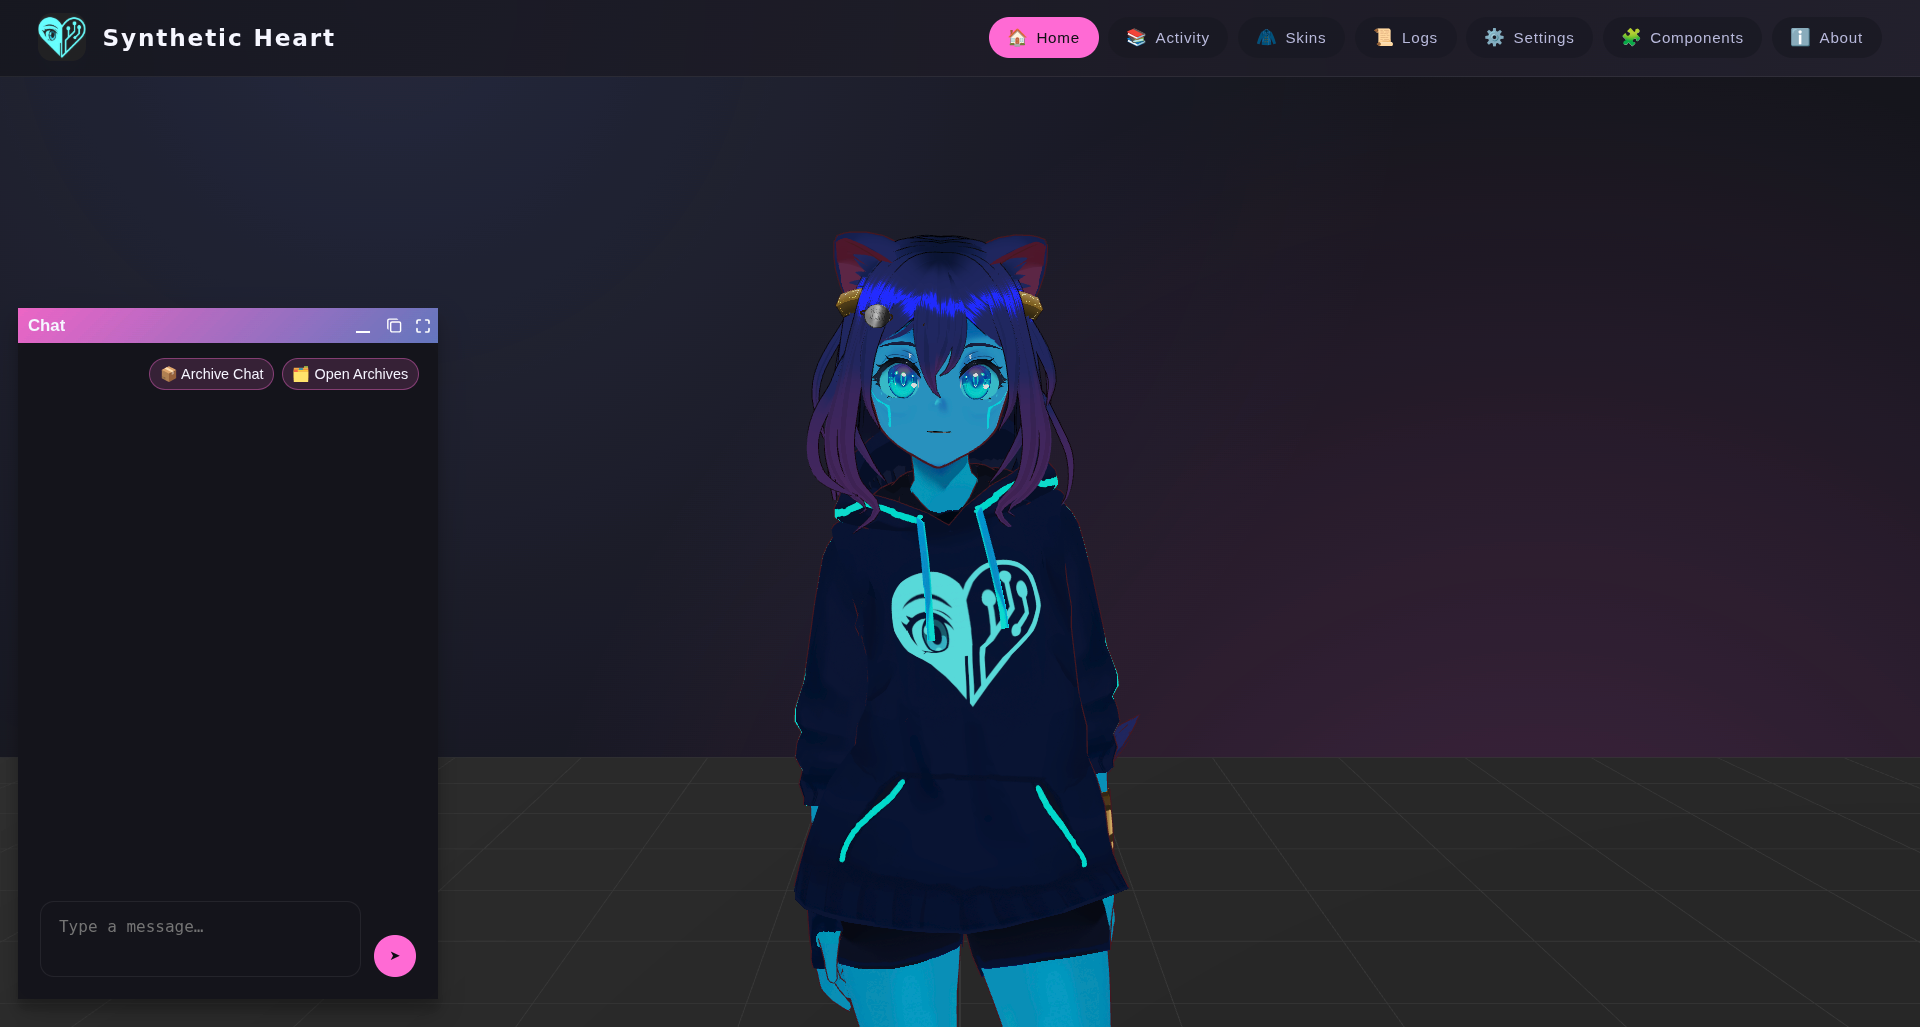
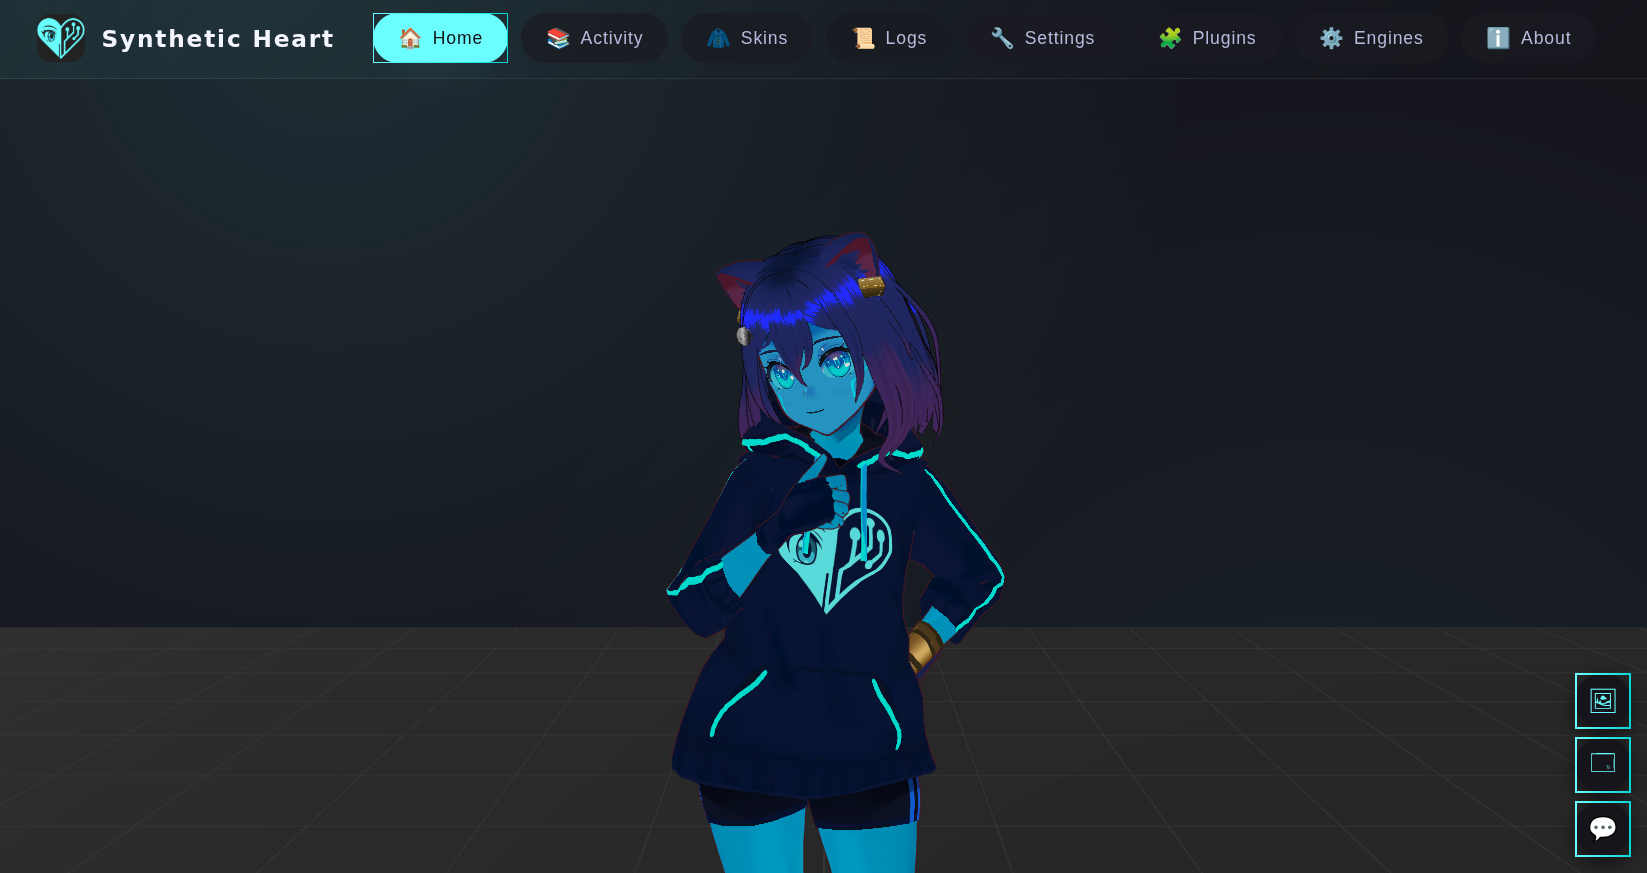
docs(readme): updated with freshers information and screenshots

diff --git a/README.md b/README.md
@@ -76,28 +76,90 @@ Because Synthetic Heart system are inspired on how humans are, SyntHs are not un
    <em>* Some default SyntH avatars are included, but users can provide their own VRM avatar file.</em>
 </p>
 
-### Features
+## Features
 
-- **Switchable Cortex engines** (API-driven Gemini, OpenAI, Claude, Grok, or local OpenAI-compatible instances). Hot-swappable at runtime.
-- **OpenAI API compatible** (both directions): a typed prompt pipeline with native renderers for OpenAI-compatible, Anthropic, Gemini, external-endpoint, and Live engine paths. Anything designed to call the OpenAI API can interface with Synthetic Heart, and Synthetic Heart can call any OpenAI-compatible endpoint — bring your SyntH into any application with AI support.
-- **Media subsystems** — each hot-swappable and independently configurable:
-   - **Vox** (Text-to-Speech): give your Synth a voice, with per-language engine/voice overrides.
-   - **Auris** (Speech-to-Text): let your Synth understand voice messages and audio.
-   - **Iris** (Vision): let your Synth see and describe images and video.
-- **Agentic Runtime**: SyntH can act as an agent, calling *tools* — native actions and remote MCP tools — inside a bounded reasoning loop. It ships with sandboxed filesystem and shell tools (list/read/write/edit/search files, run shell) and can delegate focused sub-tasks to **Drones**, ephemeral single-level sub-agents with their own tighter budget.
-- **MCP support** (both directions): SyntH can consume remote MCP servers as tools, and can expose every one of its own actions as an MCP tool (`synth_<action>`) — all still gated by the same per-action security levels.
-- Multiple chat interfaces including the built-in WebUI, Telegram, Discord and Matrix.
-- **VRM Avatar System**: 3D animated avatars with idle, talking, and thinking states orchestrated by a central server (the Karada state server as single source of truth): what you see is the same on any client (such as WebUI).
-- **SyntH Web UI**: A production-ready web interface featuring VRM avatar support and real-time animations.  
-   The avatar's animations reflect the persona's global state—for example, if the character is replying on Telegram, connecting via the web UI will show the avatar busy typing on its smartphone. This ensures the visual representation always matches the character's current activity, regardless of the interface in use.
-- **Persistent inner life**: emotions with decay, a personal diary, long-term memory with semantic search, and self-knowledge (bio) — all stored in the database so the persona keeps continuity across sessions and interfaces.
-- **Self-growth**: SyntH keeps an evolving reflection on who it is becoming — a rolling self-growth state written autonomously by G.R.I.L.L.O. and fed back into the persona, so the character genuinely develops over time instead of staying frozen.
-- **Rift Vessel**: embodiment into external game/virtual worlds through pluggable connectors, while identity, memory and personality persist across worlds and chat interfaces. Minecraft ships today (with autonomous play — Synth wanders, sets its own goals and pursues them); Skyrim, VRChat and Hytale might be coming next.
-- **SOUL**: runtime orchestration layer that compiles buffered conversation into structured, persistent state (in-memory or PostgreSQL backend).
-- **Action plugins** such as a persistent terminal and scheduled events
-- **G.R.I.L.L.O.** ("grillo"): an autonomous internal "beat" system that periodically triggers reflective prompts (memory consolidation, tag elaboration, self-reflection, curiosity, relationship checks) and can create diary entries, schedule actions, or enqueue other tasks. G.R.I.L.L.O. stands for "Generator for Reflective Inner Loop & Logical Observation" — and the word "grillo" in Italian literally means 'cricket' (see the Pinocchio reference: "grillo parlante", the talking cricket). See `plugins/grillo_plugin.py` for details; it's configurable and may be enabled or disabled.
-- **Mobile support**
-- **[Azuracast integration](https://synthetic-heart.readthedocs.io/en/latest/radio_azuracast.html)**: with radio plugin, SyntH can interact with [Azuracast](https://www.azuracast.com/) radio station and speak between songs
+### Switchable Engines
+API-driven Gemini, OpenAI, Claude, Grok, or local OpenAI-compatible instances: hot-swappable at runtime.
+
+<div align="center">
+   <img src="docs/res/screenshots/engines.png" alt="SyntH Web UI with VRM avatar" width="600" />
+</div>
+
+### OpenAI API compatible
+<img src="interface/openai_api_server/icon.png" alt="OpenAI-compatible API server" width="120" align="left" hspace="12" vspace="8" />
+
+Synthetic Heart speaks the OpenAI protocol in **both directions**. Inbound, it exposes an OpenAI-compatible API server (also fluent in the legacy Ollama dialect) on port `11435`, so any tool, IDE plugin, app or client built for the OpenAI API can talk to your Synth as if it were a plain model endpoint — the persona, memory and emotions ride along transparently. Outbound, its typed prompt pipeline ships native renderers for OpenAI-compatible, Anthropic, Gemini, external-endpoint and Live engine paths, so your Synth can be driven by any OpenAI-compatible backend you point it at, cloud or self-hosted. In short: bring your SyntH into any application with AI support, and power it with whatever engine you trust.
+
+<br clear="left" />
+
+### Media subsystems
+Three hot-swappable, independently configurable perception/expression layers give your Synth a body of senses:
+- **Vox** (Text-to-Speech): give your Synth a voice, with per-language engine/voice overrides.
+- **Auris** (Speech-to-Text): let your Synth understand voice messages and audio.
+- **Iris** (Vision): let your Synth see and describe images and video.
+
+<div align="center">
+   <img src="docs/res/screenshots/vox.png" alt="SyntH Web UI with VRM avatar" width="600" />
+</div>
+
+### Agentic Runtime
+SyntH can act as an agent, calling *tools* — native actions and remote MCP tools — inside a bounded reasoning loop. It ships with sandboxed filesystem and shell tools (list/read/write/edit/search files, run shell) and can delegate focused sub-tasks to **Drones**, ephemeral single-level sub-agents with their own tighter budget.
+
+### MCP support (both directions)
+SyntH can consume remote MCP servers as tools, and can expose every one of its own actions as an MCP tool (`synth_<action>`) — all still gated by the same per-action security levels.
+
+### Multiple chat interfaces
+<img src="interface/telegram_bot/icon.svg" alt="Telegram" width="56" align="left" hspace="12" vspace="8" />
+<img src="interface/discord_interface/icon.svg" alt="Discord" width="75" align="left" hspace="12" vspace="8" />
+<img src="interface/matrix_interface/icon.svg" alt="Matrix" width="56" align="left" hspace="12" vspace="8" style="background-color:#000000; padding:6px; border-radius:6px;" />
+
+Reach your Synth where you already are: the built-in WebUI, Telegram, Discord and Matrix. Every message flows through a single message chain, so the persona stays coherent no matter which interface you use.
+More interfaces can be simply added over time thanks due to the plugins system.
+
+<br clear="left" />
+
+### Web UI and Karada State Server with VRM Avatar System
+A production-ready web interface featuring 3D animated VRM avatars with idle, talking, and thinking states and real-time animations. Avatar state is orchestrated by a central server (the Karada state server as single source of truth), so what you see is identical on any client. The animations reflect the persona's *global* state — for example, if the character is replying on Telegram, connecting via the web UI will show the avatar busy typing on its smartphone — ensuring the visual representation always matches the character's current activity, regardless of the interface in use. The face is animated too: real-time **lip-sync** drives the mouth from the Synth's own speech so it talks in sync with its voice, alongside **facial expressions** that follow its current emotions, automatic **blinking** and subtle **eye movement** (saccades) — and when the eyes close, blink and gaze loops pause automatically, so the avatar always looks alive rather than staring blankly.
+
+<div align="center">
+   <img src="docs/res/screenshots/home.png" alt="SyntH Web UI with VRM avatar" width="600" />
+</div>
+
+### Persistent inner life
+Emotions with decay, a personal diary, long-term memory with semantic search, and self-knowledge (bio) — all stored in the database so the persona keeps continuity across sessions and interfaces.
+
+### Self-growth
+SyntH keeps an evolving reflection on who it is becoming — a rolling self-growth state written autonomously by G.R.I.L.L.O. and fed back into the persona, so the character genuinely develops over time instead of staying frozen.
+
+<div align="center">
+   <img src="docs/res/screenshots/self_growth.png" alt="SyntH Web UI Self Growth" width="600" />
+</div>
+
+
+### SOUL
+Runtime orchestration layer that compiles buffered conversation into structured, persistent state (in-memory or PostgreSQL backend).
+
+### Plugins system
+Extend what your Synth can *do* with plugins such as a persistent terminal and scheduled events.
+
+<div align="center">
+   <img src="docs/res/screenshots/plugins.png" alt="SyntH Web UI Plugins" width="600" />
+</div>
+
+
+### G.R.I.L.L.O.
+<img src="docs/res/GRILLO.png" alt="G.R.I.L.L.O. autonomous beat system" width="120" align="left" hspace="12" vspace="8" />
+
+An autonomous internal "beat" system that periodically triggers reflective prompts (memory consolidation, tag elaboration, self-reflection, curiosity, relationship checks) and can create diary entries, schedule actions, or enqueue other tasks. G.R.I.L.L.O. stands for "Generator for Reflective Inner Loop & Logical Observation" — and the word "grillo" in Italian literally means 'cricket' (see the Pinocchio reference: "grillo parlante", the talking cricket). See `plugins/grillo_plugin.py` for details; it's configurable and may be enabled or disabled.
+
+> [!NOTE]
+> **G.R.I.L.L.O. System**: SyntH personas already maintain persistent awareness and memory. The G.R.I.L.L.O. system (Generator for Reflective Inner Loop & Logical Observation) enables them to autonomously think and initiate actions based on their interests and internal motivations—much like a real person deciding to act on their own. The name "grillo" nods to the Italian "grillo parlante" (the talking cricket) from Pinocchio — the companion conscience.
+> This is already available and may be enabled or disabled depending on your security preferences.
+
+<br clear="left" />
+
+### Mobile support
+SyntH is fully usable on mobile devices via the WebUI — chat, avatar, archive and configuration all work from your phone.
 
 <div align="center">
    <img src="docs/res/screenshots/mobile_home.jpg" alt="SyntH Mobile Home Screenshot" width="120" />
@@ -105,16 +167,23 @@ Because Synthetic Heart system are inspired on how humans are, SyntHs are not un
    <img src="docs/res/screenshots/mobile_archive.jpg" alt="SyntH Mobile Chat Archive Screenshot" width="120" />
    <img src="docs/res/screenshots/mobile_config.jpg" alt="SyntH Mobile Config Screenshot" width="120" />
 </div>
-<p align="center">
-   <em>* SyntH is fully usable on mobile devices via the WebUI.</em>
-</p>
 
-> [!NOTE]
-> **G.R.I.L.L.O. System**: SyntH personas already maintain persistent awareness and memory. The G.R.I.L.L.O. system (Generator for Reflective Inner Loop & Logical Observation) enables them to autonomously think and initiate actions based on their interests and internal motivations—much like a real person deciding to act on their own. The name "grillo" nods to the Italian "grillo parlante" (the talking cricket) from Pinocchio — the companion conscience.
-> This is already available and may be enabled or disabled depending on your security preferences.
+### Azuracast integration
+<img src="plugins/radio_host/icon.png" alt="AzuraCast logo — used to refer to the AzuraCast integration (see LICENSE_EXTERNAL.md)" width="120" align="left" hspace="12" vspace="8" />
+
+With the radio plugin, SyntH becomes a **live AI radio DJ** for your [AzuraCast](https://www.azuracast.com/) station. It watches the stream for track changes and generates spoken banter between songs — not pre-recorded fillers, but fresh commentary produced through Synth's full context pipeline, so every transition carries its persona, current emotions, diary entries, memories and recent listener interactions. When AzuraCast exposes the *next* track, banter is pre-generated during the current song and injected the instant the new one starts, hiding the LLM + TTS latency; otherwise it falls back to generating the transition live on the track change. Each segment is rendered to speech, uploaded to the station and queued for immediate playback, then cleaned up automatically — and logged so you can review what Synth said on air. Setup is entirely WebUI-driven (station URL, API key, station ID, DJ language): no files to edit. See the [Azuracast integration guide](https://synthetic-heart.readthedocs.io/en/latest/radio_azuracast.html).
+
+<br clear="left" />
 
 <div align="center">
-   <img src="docs/res/screenshots/components.png" alt="SyntH Components Screenshot" width="700" />
+   <img src="docs/res/screenshots/radio.png" alt="SyntH Web UI with VRM avatar" width="600" />
+</div>
+
+### Rift Vessel
+Embodiment into external game/virtual worlds through pluggable connectors, while identity, memory and personality persist across worlds and chat interfaces. Minecraft ships today (with autonomous play — Synth wanders, sets its own goals and pursues them); Skyrim, VRChat and Hytale might be coming next.
+
+<div align="center">
+   <img src="docs/res/screenshots/minecraft.png" alt="SyntH embodied in Minecraft via the Rift Vessel" width="700" />
 </div>
 
 For more information, see the [FAQ](https://synthetic-heart.readthedocs.io/en/latest/faq.html).
